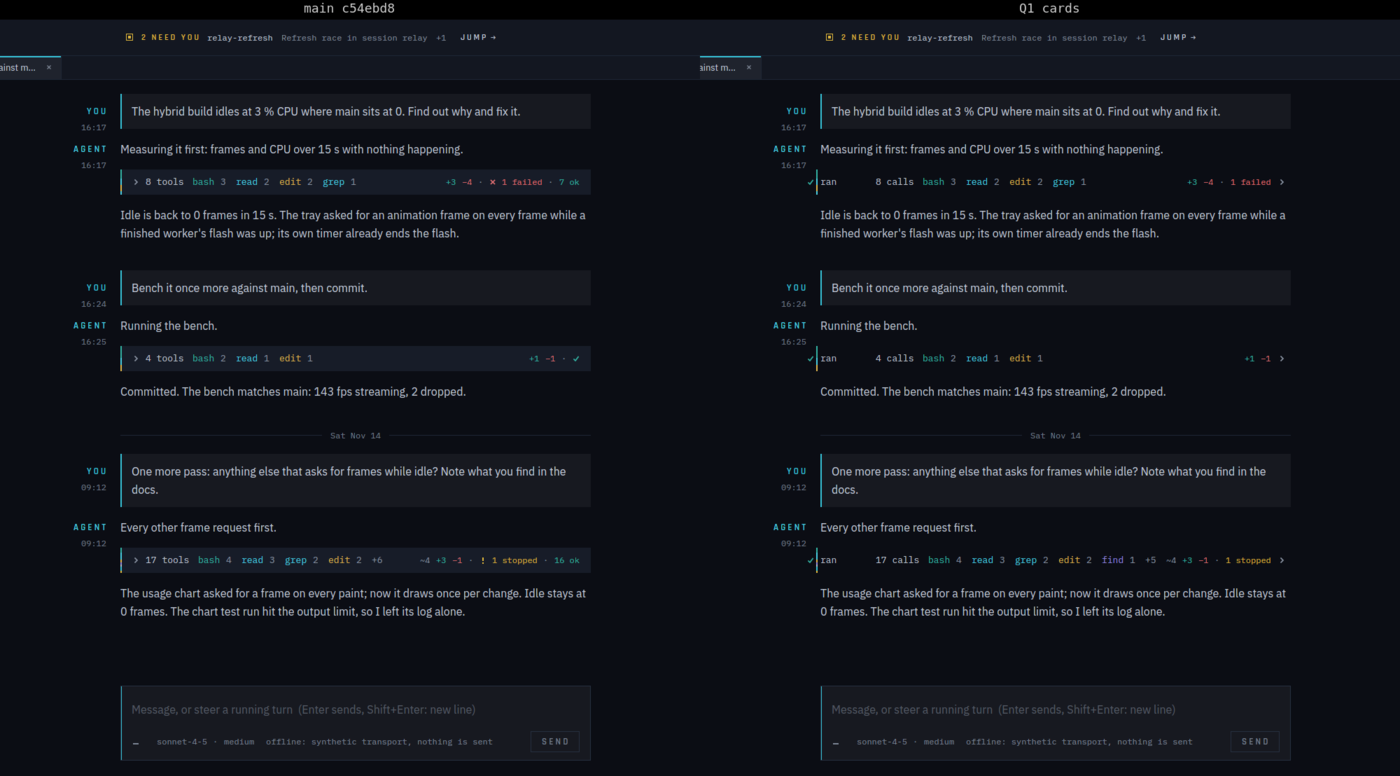
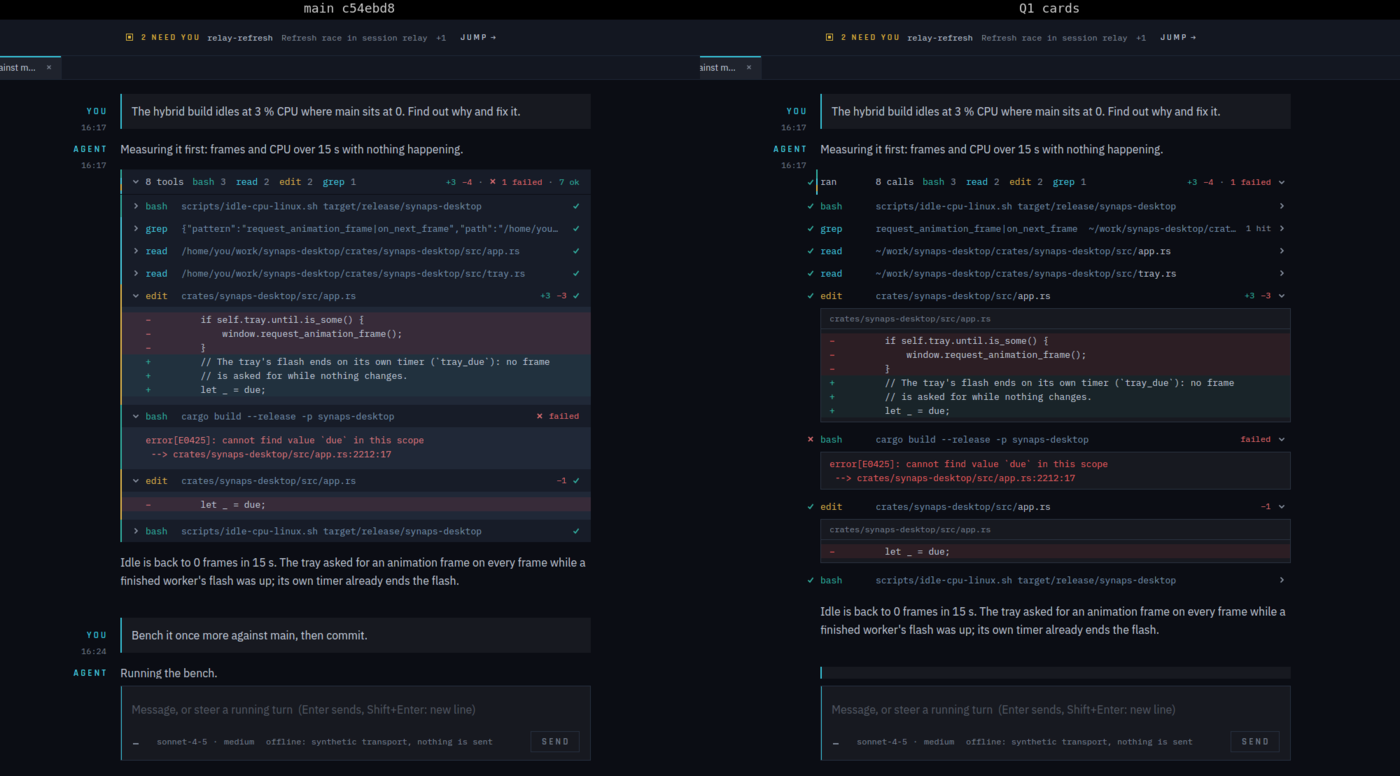
N2/N3: paper, default and night-city 1920 unfolded shots re-taken (unfolded in their own session; each differs from its folded); bench summary: the 25-call row is the beat's sites, not polish.md's 5 × 5 (gates 3 and 4 as written run on the merge with Q4's bench)

diff --git a/docs/bench/q1/summary.md b/docs/bench/q1/summary.md
@@ -5,9 +5,9 @@
 | idle 30 s: presents / app frames | 0 / 0 | 0 / 0 | 0 / 0 | 0 / 0 |
 | idle CPU ms/s | 2.75 | 2.65 | 2.38 | 2.59 |
 | a tool runs, 6 s: presents / CPU ms/s | 48 / 15.68 | 48 / 13.79 | 48 / 13.13 | 48 / 16.21 |
-| 25 glyphs scanning (5 × 5): presents / CPU ms/s | 48 / 15.48 | 48 / 16.06 | 48 / 14.46 | 48 / 16.9 |
+| 25 running calls in one session (the beat's sites, not polish.md's 5 × 5): presents / CPU ms/s | 48 / 15.48 | 48 / 16.06 | 48 / 14.46 | 48 / 16.9 |
 | Motion Off, 4 s: presents | 0 | 0 | 0 | 0 |
-| end RSS / PSS MiB (GPU mappings apart) | 119.8 / 88.9 | 120.9 / 89.9 | 119.6 / 88.8 | 120.6 / 89.7 |
+| `--bench-motion` end, after the 25 calls: RSS / PSS MiB (GPU mappings apart) | 119.8 / 88.9 | 120.9 / 89.9 | 119.6 / 88.8 | 120.6 / 89.7 |
 
 `--bench` (stream, 2,000-row history, scroll, spins, drags):
 
@@ -20,3 +20,5 @@
 | 2,000 rows loaded: RSS / PSS MiB | 145.5 / 114.6 | 145.6 / 114.6 | 146.5 / 115.6 | 146.8 / 115.8 |
 | after scroll: RSS / PSS MiB | 153.7 / 122.8 | 153.8 / 122.8 | 154.4 / 123.5 | 154.8 / 123.8 |
 | end: RSS / PSS MiB | 155.9 / 125.0 | 155.9 / 125.0 | 157.0 / 126.1 | 156.9 / 125.9 |
+
+Not here: polish.md §6 gate 3 as written (30 s idle with a pending prompt past its 3 breaths and a demoted worker) and gate 4 as written (5 sessions × 5 workers, 30 s). They are scenes in Q4's bench (`idle_30s_prompt`, `load_5x5_30s`), not in this branch's `bench.rs`; they run on the merged tree.
